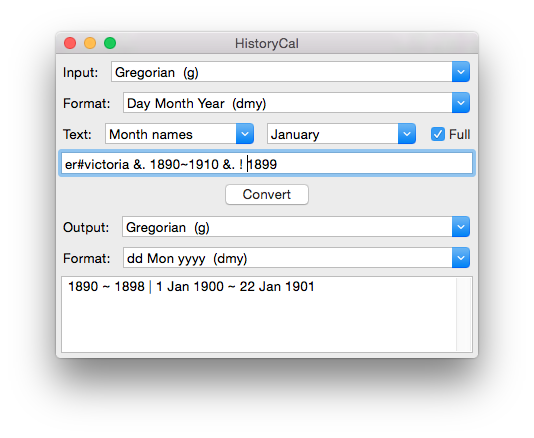
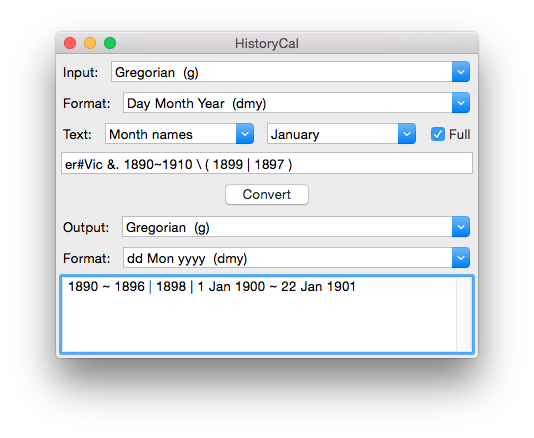
Create images for, and write website manual calculate.htm page.

Changed region(s): [[0.0899, 0.6233, 0.8989, 0.8311], [0.0899, 0.3265, 0.8989, 0.4155]]

diff --git a/website/man/calculate.htm b/website/man/calculate.htm
@@ -25,7 +25,112 @@
 
 <div id="content" class="nomenu">
 
-<h2>Manual - Under Construction</h2>
+<img class='scrnprnt' src='../sp/sp5.png' alt='Screen Print 5' />
+<h2>Combining Ranges</h2>
+<p>
+ We have already meet HistoryCal's ability to handle more than one date range at a time
+ in our "Suprising" results in the previous sections.
+ The output ranges (and we can treat a single day as a range of one day) are separated
+ by the '|' (vertical bar) character.
+</p>
+<p>
+ In the following, we describe the operations in terms of both set theory and logic operations.
+ The strict mathematical view is that because we are dealing with many things (days) at once,
+ these are sets and we should be using the set operators.
+ The logical operators can only apply to one thing (day) at a time.
+ However, we can impliment the set operations by applying the logical operators
+ to each day over the full time-continuum.
+</p>
+
+<h3>Union operator <span style='font-size:smaller;'>or</span> Or operator</h3>
+<img src='union.png' alt='Union Operator' style='float:left;margin-right:1em;margin-bottom:1em;' />
+<p>
+ Although we are borrowing from set theory, we use the '|' character as the "Union" operator.
+ This usually has the symbol <img src='union-symbol.png' alt='Union Symbol' />,
+ but '|' is easier to type. It is also the character commonly associated with the
+ logical operator "or" - and this is probably the best way to remember it.
+</p>
+<p>
+ Simply put, it means both ranges are to be included in the output.
+ For example, "1890 ~ 1920 | 1910 ~ 1930" = "1830 ~ 1930".
+ (We will assume input and output is set to Gregorian for all example unless otherwise stated.)
+</p>
+<p>
+ If the two ranges do not overlapp, as in "1910 ~ 1920 | 1890 ~ 1900", the output will be
+ "1890 ~ 1900 | 1910 ~ 1920". But you will note, it has moved the ranges around.
+</p>
+<h3>Well Order List</h3>
+<img src='well-ordered.png' alt='Well ordered list' style='float:left;margin-right:1em;margin-bottom:1em;' />
+<p>
+ The calculator output is always in the form of a well ordered list.
+ By which we mean:
+ ranges are alway shown with the earlier date first,
+ multiple ranges are separated by the "|" character,
+ ranges do not overlapp or abut one another
+ and are in ascending order.
+</p>
+<p>
+ For example: the input "1948 | 1946" will give the output "1946 | 1948".
+ The input "1948 | 1946 | 1949" will give "1946 | 1948 ~ 1949".
+ And the input "1948 | 1946 | 1949 | 1947" gives "1946 ~ 1949".
+</p>
+
+<h3>Intersection operator <span style='font-size:smaller;'>or</span> And operator</h3>
+<img src='inter.png' alt='Intersection Operator' style='float:left;margin-right:1em;margin-bottom:1em;' />
+<p>
+ The '&amp;' character is used as the "Intersection" operator,
+ instead of the more usual symbol <img src='intersection-symbol.png' alt='Union Symbol' />.
+ Also we place a dot after it (&amp;.) to distinguish from the &amp; in an element name
+ (ie "Philip &amp; Mary")
+ It is also the character commonly associated with the
+ logical operator "and" - which is the easiest way to think of it.
+</p>
+<p>
+ Example: "1890~1920 &amp;. 1900~1940" equals "1900 ~ 1920".
+</p>
+
+<h3>Complement operator <span style='font-size:smaller;'>or</span> Not operator</h3>
+<img src='complement.png' alt='Complement Operator' style='float:left;margin-right:1em;margin-bottom:1em;' />
+<p>
+ The '!' character is used to denote to the unitary "Complement" operator.
+ Usually this is indicated by a small 'c' superscript or an overbar,
+ but these methods do not lend themselves standard keyboard  entry.
+ The '!' is commonly used for the logical operator 'not'.
+</p>
+<p>
+ Examples are "!1948" which equals "past ~ 31 Dec 1947 | 1 Jan 1949 ~ future"
+ and "!past~1800" which equals "1 Jan 1801 ~ future";
+</p>
+
+<h3>Symmetric Difference operator <span style='font-size:smaller;'>or</span> Exclusive Or operator</h3>
+<img src='sym-dif.png' alt='Symmetric Difference Operator' style='float:left;margin-right:1em;margin-bottom:1em;' />
+<p>
+ The "Symmetric Difference" operator normally has the symbol
+ <img src='symmetric-dif-symbol.png' alt='Symmetric Difference Symbol' />
+ but we will use the '^' (carrot or hat) character for ease of typing.
+ The '^' is used as the xor (exclusive or) operator in the many computer languages.
+ The output is the range or ranges that is in one or the other input ranges
+ but not both.
+</p>
+<p>
+ Example: "1890~1920 ^ 1900~1940" equals "1890 ~ 1899 | 1921 ~ 1940".
+</p>
+
+<h3>Relative complement operator</h3>
+<img src='rel-comp.png' alt='Relative Complement Operator' style='float:left;margin-right:1em;margin-bottom:1em;' />
+<p>
+ One of the usual symbols for "Relative Complement" is the '\' (back slash) character,
+ which is the one we shall use.
+ (The other character is the '-' (minus or hyphen), but this is already used.)
+ This is the only operation in which the order of the input is significant,
+ "A \ B" is that part of A that is not in B.
+ It could also be written as "A &.! B".
+ The logical equivalent is "a and not b".
+</p>
+<p>
+ This operator can be used to exclude a range of dates from within a larger range.
+ As in "1948 \ Sep 1948" which equals "Jan 1948 ~ Aug 1948 | Oct 1948 ~ Dec 1948".
+</p>
 
 </div>
 

diff --git a/website/gloss.htm b/website/gloss.htm
@@ -37,10 +37,18 @@
   The period of time covered for a given calendar scheme or part of a scheme.
  </dd>
  <dt id='field'>Field</dt><dd>
-  A part of a <a href='#record'>Record</a> which holds a single value.
+  An element of a date, more formally part of a <a href='#record'>Record</a> which holds a single value.
  </dd>
  <dt id='julian-day-number'>Julian Day Number</dt><dd>
   The day count calendar used internally by HistoryCal. Abbreviated to <b>jdn</b>.
+  Formally defined <a href='cal/jdn.htm'>here</a>.
+ </dd>
+ <dt id='historycal-script'>HistoryCal Input Expression</dt><dd>
+  A subset of the <a href='#historycal-script'>HistoryCal Script</a> modified for easier input.
+ </dd>
+ <dt id='historycal-script'>HistoryCal Script</dt><dd>
+  The formal script language used by the Cal library.
+  Files containing this language use the .hcs extension.
  </dd>
  <dt id='record'>Record</dt><dd>
   A collection of <a href='#field'>Fields</a> which hold the values which define the date.

diff --git a/website/sys/hcal.css b/website/sys/hcal.css
@@ -24,6 +24,7 @@ h1 {
 
 h2, h3, h4 {
  margin: 20px 2em 0.25em 1em;
+ clear: left;
 }
 
 p {
